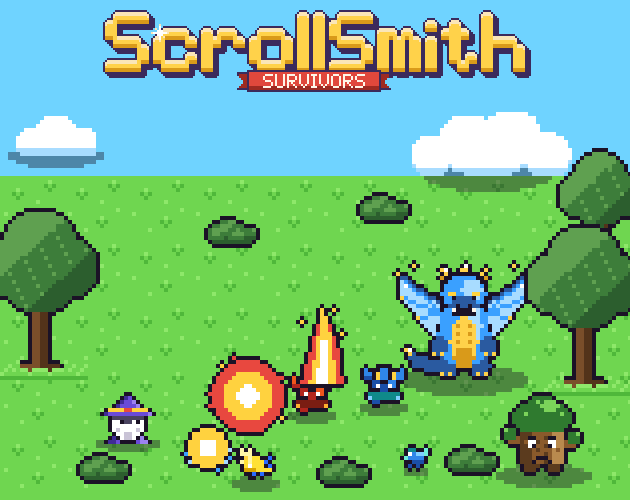
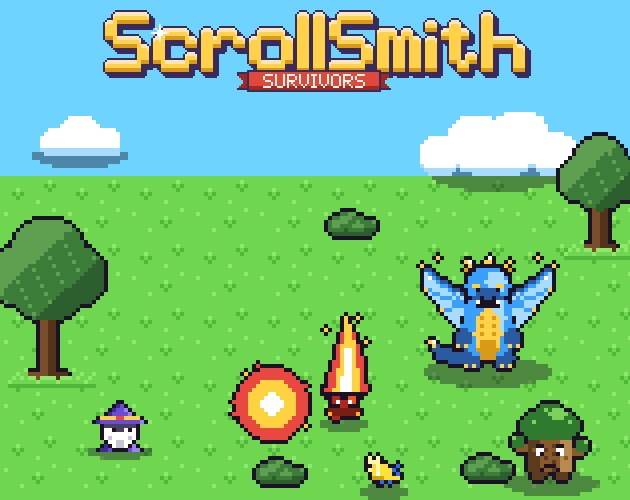
docs: a less crowded cover

diff --git a/docs/release-planning/itchio-page.md b/docs/release-planning/itchio-page.md
@@ -66,7 +66,7 @@ Cover image: 630 x 500 (itch.io's minimum is 315 x 250 at the same ratio). Scree
 
 ## Pictures
 The screenshots and the GIF are frames of the real game (a run staged at level 20 so all five spell slots are open), in `promo/`; the cover is composed from the game's own sprites. Screenshots are the real 480 x 270 frames at exactly 2x, nearest-neighbour (960 x 540).
-- cover.png (630 x 500): the wizard casting fire and lightning at a horde and the Tempest Dragon, drawn with the game's own stage engine and sprites at 4x, with the title banner at 2x. A composed poster, not a play frame. Upload as the cover image.
+- cover.png (630 x 500): the wizard casting a fireball at a goblin, with a wolf, a tank and the Tempest Dragon closing in, drawn with the game's own stage engine and sprites at 4x, with the title banner at 2x. A composed poster, not a play frame. Upload as the cover image.
 - shot_1.png: the home screen. shot_2.png: a fight at level 20 with five spells (a wizard at the top of the level track). shot_3.png: crafting a spell at the Lectern. shot_4.png: a boss fight with its attack warnings. shot_5.png: the map select.
 - fight.gif (480 x 270, 60 frames, under 1 MB): a few seconds of a fight, looping. Use it as a screenshot or in the description.
 
